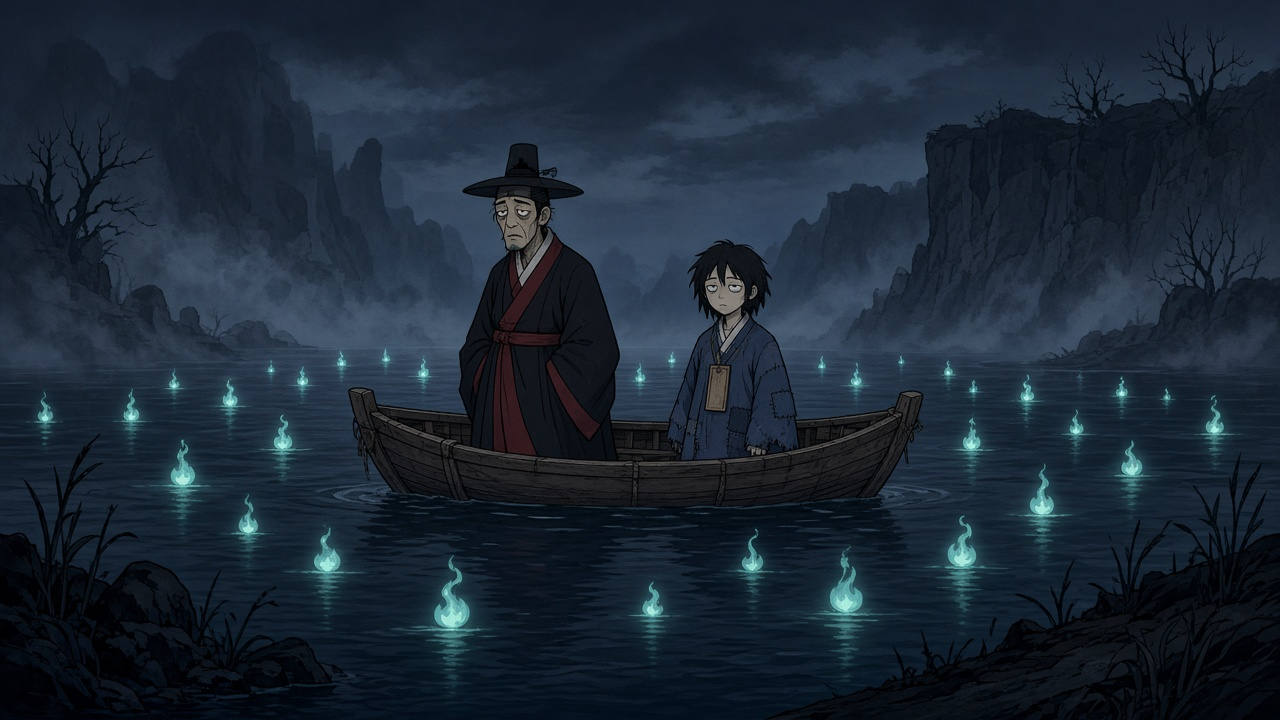
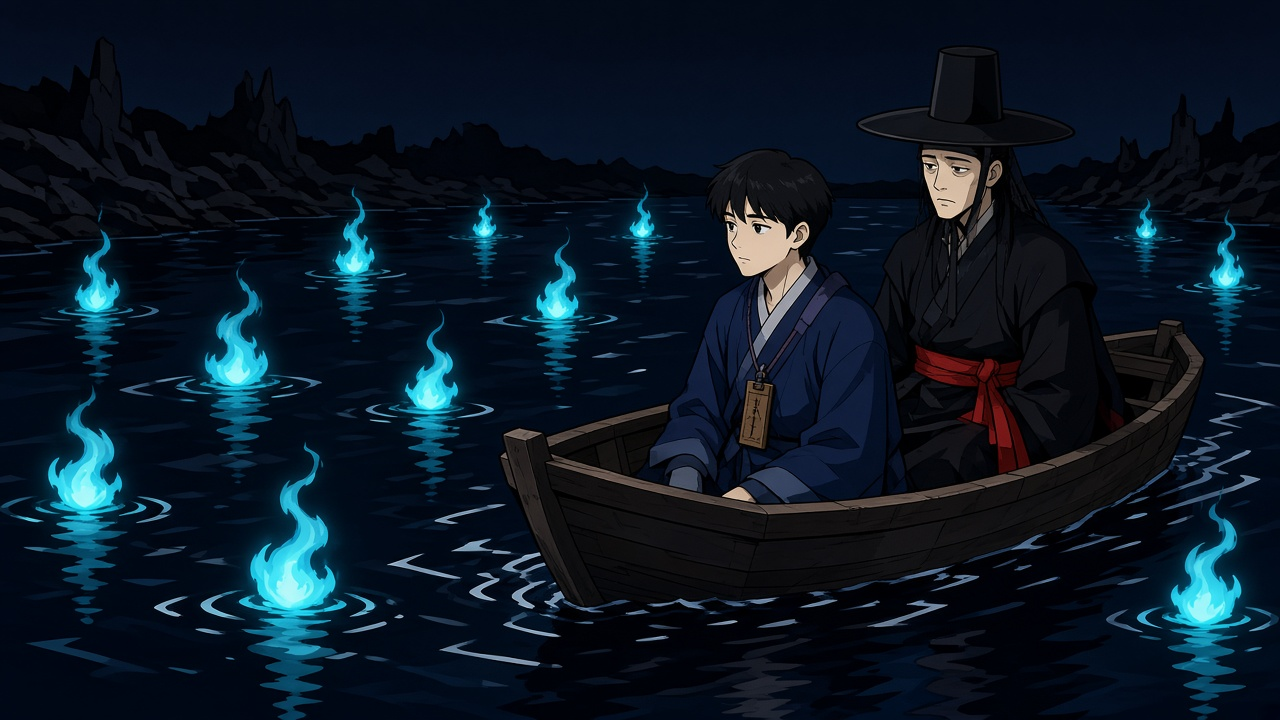
오프닝을 선명하게 바꾸고, 전투 스프라이트가 어두운 전장에 묻히지 않게 고친다.

diff --git a/cheonha.html b/cheonha.html
@@ -141,8 +141,8 @@ kbd { font-family: var(--f-body); font-size: 0.8em; padding: 1px 6px; border: 1p
 /* ---------- 이야기 배경 ---------- */
 #scr-story { overflow: hidden; background: #08090b; cursor: pointer; }
 .story-bg { position: absolute; inset: 0; display: grid; place-items: center; transition: background 1.2s; }
-.story-bg::after { content: ''; position: absolute; inset: 0; background: linear-gradient(180deg, rgba(8,9,11,0.2), rgba(8,9,11,0.45) 55%, rgba(8,9,11,0.82)); pointer-events: none; z-index: 1; }
-#story-art { position: absolute; inset: 0; width: 100%; height: 100%; object-fit: cover; object-position: center 32%; opacity: 0; transition: opacity 0.7s ease; z-index: 0; }
+.story-bg::after { content: ''; position: absolute; inset: 0; background: linear-gradient(180deg, transparent 0%, transparent 48%, rgba(8,9,11,0.35) 78%, rgba(8,9,11,0.72)); pointer-events: none; z-index: 1; }
+#story-art { position: absolute; inset: 0; width: 100%; height: 100%; object-fit: cover; object-position: center 36%; opacity: 0; transition: opacity 0.55s ease; z-index: 0; filter: contrast(1.08) saturate(1.06); }
 #story-art.on { opacity: 1; }
 #story-mark { position: relative; z-index: 2; font-family: var(--f-glyph); font-weight: 900; font-size: clamp(3rem, 18vmin, 12rem); letter-spacing: 0.12em; line-height: 1; white-space: nowrap; max-width: 92vw; overflow: hidden;
   color: rgba(217,171,74,0.07); -webkit-text-stroke: 1px rgba(217,171,74,0.2); transform: translateY(-22%); }
@@ -504,8 +504,8 @@ blockquote.rumor { margin: 6px 0 10px; padding: 10px 14px; border-left: 2px soli
   .ti-sub { margin: 14px auto 20px; font-size: 0.92rem; }
   .ti-foot { margin-top: 16px; }
   #story-mark { font-size: clamp(2.2rem, 16vw, 4.2rem); transform: translateY(-12%); }
-  #story-art { object-position: center 40%; }
-  .story-bg::after { background: linear-gradient(180deg, rgba(8,9,11,0.12), rgba(8,9,11,0.42) 48%, rgba(8,9,11,0.9)); }
+  #story-art { object-position: center 42%; }
+  .story-bg::after { background: linear-gradient(180deg, transparent 35%, rgba(8,9,11,0.45) 85%, rgba(8,9,11,0.78)); }
   #mapwrap { height: min(42dvh, 360px); min-height: 200px; }
   #cmdrail-btns.cmds { grid-template-columns: repeat(3, minmax(0, 1fr)); gap: 4px; }
   #cmdrail .cmd { min-height: 44px; padding: 5px 2px; font-size: 0.78rem; }
@@ -2132,11 +2132,16 @@ const Art = (() => {
     x.drawImage(im, 0, 0);
     const img = x.getImageData(0, 0, w, h);
     const d = img.data;
+    /* jpg 시트는 검정·짙은 회색 바탕. 너무 약하게 지우면 전장에서 캐릭터가 배경에 묻힌다. */
     const isBg = (p) => {
       const r = d[p], g = d[p + 1], b = d[p + 2];
       const lum = 0.2126 * r + 0.7152 * g + 0.0722 * b;
       const span = Math.max(r, g, b) - Math.min(r, g, b);
-      return lum < 38 && span < 30;
+      /* 마젠타/핑크 키 (jpg 압축 후 분홍빛 포함) */
+      if (r > 180 && b > 180 && g < 120 && r + b > g * 2.4) return true;
+      if (lum < 52 && span < 42) return true;
+      if (lum < 62 && span < 18) return true; /* 연기에 가까운 회색 가장자리 */
+      return false;
     };
     const seen = new Uint8Array(w * h);
     const stack = [];
@@ -2208,16 +2213,26 @@ const Art = (() => {
     const dir = Math.cos(u.face || 0) >= 0 ? 1 : -1;
     const moving = Math.hypot(u.vx || 0, u.vy || 0) > 8 && (u.stun || 0) <= 0;
     const bob = moving ? Math.abs(Math.sin(t * 13 + (u.bob || 0))) * 1.6 : Math.sin(t * 2.2 + (u.bob || 0)) * 0.5;
-    const sc = u.boss ? 1.14 : 1;
-    const hh = 70 * sc;
+    const sc = u.boss ? 1.18 : 1;
+    const hh = 92 * sc;
     const fr = frameOf(u, t);
     const sw = u.swing > 0 ? Math.sin((u.swing / 0.2) * Math.PI) * 4 : 0;
+    const stun = u.stun > 0 ? t * 20 : 0;
     c.save();
     c.translate(dir * sw, -bob);
-    blitSheet(c, spr, fr, u.x, u.y + 10, hh, dir, u.stun > 0 ? t * 20 : 0);
+    /* 어두운 시트도 전장에서 보이게: 밝은 실루엣 → 본체 */
+    c.save();
+    c.globalAlpha = 0.55;
+    c.filter = 'brightness(2.8) contrast(0.7)';
+    blitSheet(c, spr, fr, u.x + 1, u.y + 11, hh, dir, stun);
+    blitSheet(c, spr, fr, u.x - 1, u.y + 9, hh, dir, stun);
+    c.restore();
+    c.filter = 'contrast(1.28) brightness(1.38) saturate(1.2)';
+    blitSheet(c, spr, fr, u.x, u.y + 10, hh, dir, stun);
+    c.filter = 'none';
     if (u.flash > 0) {
       c.globalCompositeOperation = 'lighter';
-      c.globalAlpha = 0.45;
+      c.globalAlpha = 0.5;
       blitSheet(c, spr, fr, u.x, u.y + 10, hh, dir, 0);
       c.globalAlpha = 1;
       c.globalCompositeOperation = 'source-over';

diff --git a/index.html b/index.html
@@ -141,8 +141,8 @@ kbd { font-family: var(--f-body); font-size: 0.8em; padding: 1px 6px; border: 1p
 /* ---------- 이야기 배경 ---------- */
 #scr-story { overflow: hidden; background: #08090b; cursor: pointer; }
 .story-bg { position: absolute; inset: 0; display: grid; place-items: center; transition: background 1.2s; }
-.story-bg::after { content: ''; position: absolute; inset: 0; background: linear-gradient(180deg, rgba(8,9,11,0.2), rgba(8,9,11,0.45) 55%, rgba(8,9,11,0.82)); pointer-events: none; z-index: 1; }
-#story-art { position: absolute; inset: 0; width: 100%; height: 100%; object-fit: cover; object-position: center 32%; opacity: 0; transition: opacity 0.7s ease; z-index: 0; }
+.story-bg::after { content: ''; position: absolute; inset: 0; background: linear-gradient(180deg, transparent 0%, transparent 48%, rgba(8,9,11,0.35) 78%, rgba(8,9,11,0.72)); pointer-events: none; z-index: 1; }
+#story-art { position: absolute; inset: 0; width: 100%; height: 100%; object-fit: cover; object-position: center 36%; opacity: 0; transition: opacity 0.55s ease; z-index: 0; filter: contrast(1.08) saturate(1.06); }
 #story-art.on { opacity: 1; }
 #story-mark { position: relative; z-index: 2; font-family: var(--f-glyph); font-weight: 900; font-size: clamp(3rem, 18vmin, 12rem); letter-spacing: 0.12em; line-height: 1; white-space: nowrap; max-width: 92vw; overflow: hidden;
   color: rgba(217,171,74,0.07); -webkit-text-stroke: 1px rgba(217,171,74,0.2); transform: translateY(-22%); }
@@ -504,8 +504,8 @@ blockquote.rumor { margin: 6px 0 10px; padding: 10px 14px; border-left: 2px soli
   .ti-sub { margin: 14px auto 20px; font-size: 0.92rem; }
   .ti-foot { margin-top: 16px; }
   #story-mark { font-size: clamp(2.2rem, 16vw, 4.2rem); transform: translateY(-12%); }
-  #story-art { object-position: center 40%; }
-  .story-bg::after { background: linear-gradient(180deg, rgba(8,9,11,0.12), rgba(8,9,11,0.42) 48%, rgba(8,9,11,0.9)); }
+  #story-art { object-position: center 42%; }
+  .story-bg::after { background: linear-gradient(180deg, transparent 35%, rgba(8,9,11,0.45) 85%, rgba(8,9,11,0.78)); }
   #mapwrap { height: min(42dvh, 360px); min-height: 200px; }
   #cmdrail-btns.cmds { grid-template-columns: repeat(3, minmax(0, 1fr)); gap: 4px; }
   #cmdrail .cmd { min-height: 44px; padding: 5px 2px; font-size: 0.78rem; }
@@ -2132,11 +2132,16 @@ const Art = (() => {
     x.drawImage(im, 0, 0);
     const img = x.getImageData(0, 0, w, h);
     const d = img.data;
+    /* jpg 시트는 검정·짙은 회색 바탕. 너무 약하게 지우면 전장에서 캐릭터가 배경에 묻힌다. */
     const isBg = (p) => {
       const r = d[p], g = d[p + 1], b = d[p + 2];
       const lum = 0.2126 * r + 0.7152 * g + 0.0722 * b;
       const span = Math.max(r, g, b) - Math.min(r, g, b);
-      return lum < 38 && span < 30;
+      /* 마젠타/핑크 키 (jpg 압축 후 분홍빛 포함) */
+      if (r > 180 && b > 180 && g < 120 && r + b > g * 2.4) return true;
+      if (lum < 52 && span < 42) return true;
+      if (lum < 62 && span < 18) return true; /* 연기에 가까운 회색 가장자리 */
+      return false;
     };
     const seen = new Uint8Array(w * h);
     const stack = [];
@@ -2208,16 +2213,26 @@ const Art = (() => {
     const dir = Math.cos(u.face || 0) >= 0 ? 1 : -1;
     const moving = Math.hypot(u.vx || 0, u.vy || 0) > 8 && (u.stun || 0) <= 0;
     const bob = moving ? Math.abs(Math.sin(t * 13 + (u.bob || 0))) * 1.6 : Math.sin(t * 2.2 + (u.bob || 0)) * 0.5;
-    const sc = u.boss ? 1.14 : 1;
-    const hh = 70 * sc;
+    const sc = u.boss ? 1.18 : 1;
+    const hh = 92 * sc;
     const fr = frameOf(u, t);
     const sw = u.swing > 0 ? Math.sin((u.swing / 0.2) * Math.PI) * 4 : 0;
+    const stun = u.stun > 0 ? t * 20 : 0;
     c.save();
     c.translate(dir * sw, -bob);
-    blitSheet(c, spr, fr, u.x, u.y + 10, hh, dir, u.stun > 0 ? t * 20 : 0);
+    /* 어두운 시트도 전장에서 보이게: 밝은 실루엣 → 본체 */
+    c.save();
+    c.globalAlpha = 0.55;
+    c.filter = 'brightness(2.8) contrast(0.7)';
+    blitSheet(c, spr, fr, u.x + 1, u.y + 11, hh, dir, stun);
+    blitSheet(c, spr, fr, u.x - 1, u.y + 9, hh, dir, stun);
+    c.restore();
+    c.filter = 'contrast(1.28) brightness(1.38) saturate(1.2)';
+    blitSheet(c, spr, fr, u.x, u.y + 10, hh, dir, stun);
+    c.filter = 'none';
     if (u.flash > 0) {
       c.globalCompositeOperation = 'lighter';
-      c.globalAlpha = 0.45;
+      c.globalAlpha = 0.5;
       blitSheet(c, spr, fr, u.x, u.y + 10, hh, dir, 0);
       c.globalAlpha = 1;
       c.globalCompositeOperation = 'source-over';

diff --git a/src/style.css b/src/style.css
@@ -132,8 +132,8 @@ kbd { font-family: var(--f-body); font-size: 0.8em; padding: 1px 6px; border: 1p
 /* ---------- 이야기 배경 ---------- */
 #scr-story { overflow: hidden; background: #08090b; cursor: pointer; }
 .story-bg { position: absolute; inset: 0; display: grid; place-items: center; transition: background 1.2s; }
-.story-bg::after { content: ''; position: absolute; inset: 0; background: linear-gradient(180deg, rgba(8,9,11,0.2), rgba(8,9,11,0.45) 55%, rgba(8,9,11,0.82)); pointer-events: none; z-index: 1; }
-#story-art { position: absolute; inset: 0; width: 100%; height: 100%; object-fit: cover; object-position: center 32%; opacity: 0; transition: opacity 0.7s ease; z-index: 0; }
+.story-bg::after { content: ''; position: absolute; inset: 0; background: linear-gradient(180deg, transparent 0%, transparent 48%, rgba(8,9,11,0.35) 78%, rgba(8,9,11,0.72)); pointer-events: none; z-index: 1; }
+#story-art { position: absolute; inset: 0; width: 100%; height: 100%; object-fit: cover; object-position: center 36%; opacity: 0; transition: opacity 0.55s ease; z-index: 0; filter: contrast(1.08) saturate(1.06); }
 #story-art.on { opacity: 1; }
 #story-mark { position: relative; z-index: 2; font-family: var(--f-glyph); font-weight: 900; font-size: clamp(3rem, 18vmin, 12rem); letter-spacing: 0.12em; line-height: 1; white-space: nowrap; max-width: 92vw; overflow: hidden;
   color: rgba(217,171,74,0.07); -webkit-text-stroke: 1px rgba(217,171,74,0.2); transform: translateY(-22%); }
@@ -495,8 +495,8 @@ blockquote.rumor { margin: 6px 0 10px; padding: 10px 14px; border-left: 2px soli
   .ti-sub { margin: 14px auto 20px; font-size: 0.92rem; }
   .ti-foot { margin-top: 16px; }
   #story-mark { font-size: clamp(2.2rem, 16vw, 4.2rem); transform: translateY(-12%); }
-  #story-art { object-position: center 40%; }
-  .story-bg::after { background: linear-gradient(180deg, rgba(8,9,11,0.12), rgba(8,9,11,0.42) 48%, rgba(8,9,11,0.9)); }
+  #story-art { object-position: center 42%; }
+  .story-bg::after { background: linear-gradient(180deg, transparent 35%, rgba(8,9,11,0.45) 85%, rgba(8,9,11,0.78)); }
   #mapwrap { height: min(42dvh, 360px); min-height: 200px; }
   #cmdrail-btns.cmds { grid-template-columns: repeat(3, minmax(0, 1fr)); gap: 4px; }
   #cmdrail .cmd { min-height: 44px; padding: 5px 2px; font-size: 0.78rem; }

diff --git a/src/sprites.js b/src/sprites.js
@@ -39,11 +39,16 @@ const Art = (() => {
     x.drawImage(im, 0, 0);
     const img = x.getImageData(0, 0, w, h);
     const d = img.data;
+    /* jpg 시트는 검정·짙은 회색 바탕. 너무 약하게 지우면 전장에서 캐릭터가 배경에 묻힌다. */
     const isBg = (p) => {
       const r = d[p], g = d[p + 1], b = d[p + 2];
       const lum = 0.2126 * r + 0.7152 * g + 0.0722 * b;
       const span = Math.max(r, g, b) - Math.min(r, g, b);
-      return lum < 38 && span < 30;
+      /* 마젠타/핑크 키 (jpg 압축 후 분홍빛 포함) */
+      if (r > 180 && b > 180 && g < 120 && r + b > g * 2.4) return true;
+      if (lum < 52 && span < 42) return true;
+      if (lum < 62 && span < 18) return true; /* 연기에 가까운 회색 가장자리 */
+      return false;
     };
     const seen = new Uint8Array(w * h);
     const stack = [];
@@ -115,16 +120,26 @@ const Art = (() => {
     const dir = Math.cos(u.face || 0) >= 0 ? 1 : -1;
     const moving = Math.hypot(u.vx || 0, u.vy || 0) > 8 && (u.stun || 0) <= 0;
     const bob = moving ? Math.abs(Math.sin(t * 13 + (u.bob || 0))) * 1.6 : Math.sin(t * 2.2 + (u.bob || 0)) * 0.5;
-    const sc = u.boss ? 1.14 : 1;
-    const hh = 70 * sc;
+    const sc = u.boss ? 1.18 : 1;
+    const hh = 92 * sc;
     const fr = frameOf(u, t);
     const sw = u.swing > 0 ? Math.sin((u.swing / 0.2) * Math.PI) * 4 : 0;
+    const stun = u.stun > 0 ? t * 20 : 0;
     c.save();
     c.translate(dir * sw, -bob);
-    blitSheet(c, spr, fr, u.x, u.y + 10, hh, dir, u.stun > 0 ? t * 20 : 0);
+    /* 어두운 시트도 전장에서 보이게: 밝은 실루엣 → 본체 */
+    c.save();
+    c.globalAlpha = 0.55;
+    c.filter = 'brightness(2.8) contrast(0.7)';
+    blitSheet(c, spr, fr, u.x + 1, u.y + 11, hh, dir, stun);
+    blitSheet(c, spr, fr, u.x - 1, u.y + 9, hh, dir, stun);
+    c.restore();
+    c.filter = 'contrast(1.28) brightness(1.38) saturate(1.2)';
+    blitSheet(c, spr, fr, u.x, u.y + 10, hh, dir, stun);
+    c.filter = 'none';
     if (u.flash > 0) {
       c.globalCompositeOperation = 'lighter';
-      c.globalAlpha = 0.45;
+      c.globalAlpha = 0.5;
       blitSheet(c, spr, fr, u.x, u.y + 10, hh, dir, 0);
       c.globalAlpha = 1;
       c.globalCompositeOperation = 'source-over';
